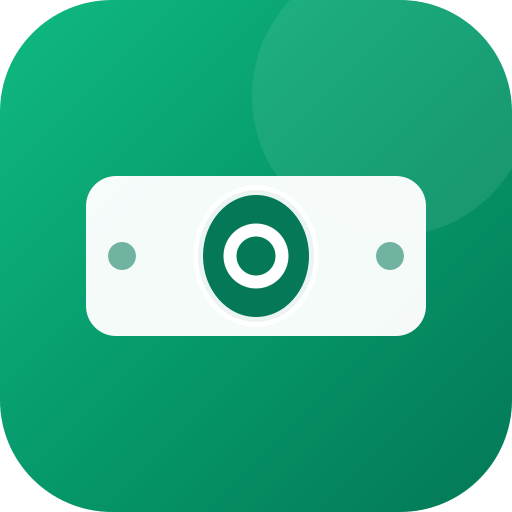
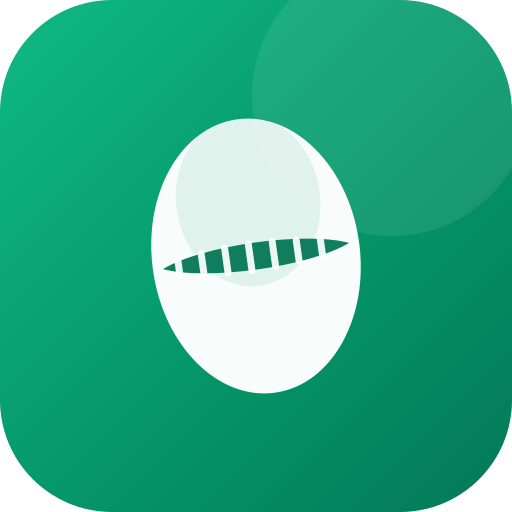
Icône cauri : coquille à fente dentée à la place du billet (cache kola-v3)

Changed region(s): [[0.1562, 0.2188, 0.8438, 0.7812]]

diff --git a/sw.js b/sw.js
@@ -1,5 +1,5 @@
 /* Kola — service worker (network-first pour l'app shell, offline-first pour le reste) */
-const CACHE = "kola-v2";
+const CACHE = "kola-v3";
 // Les splash screens iOS (icons/splash/) ne sont PAS pré-cachés : ~150 Ko à l'install
 // pour un usage qui n'est pas hors-ligne critique. Ils entrent au cache runtime
 // (offline-first) dès la première consultation en ligne.
